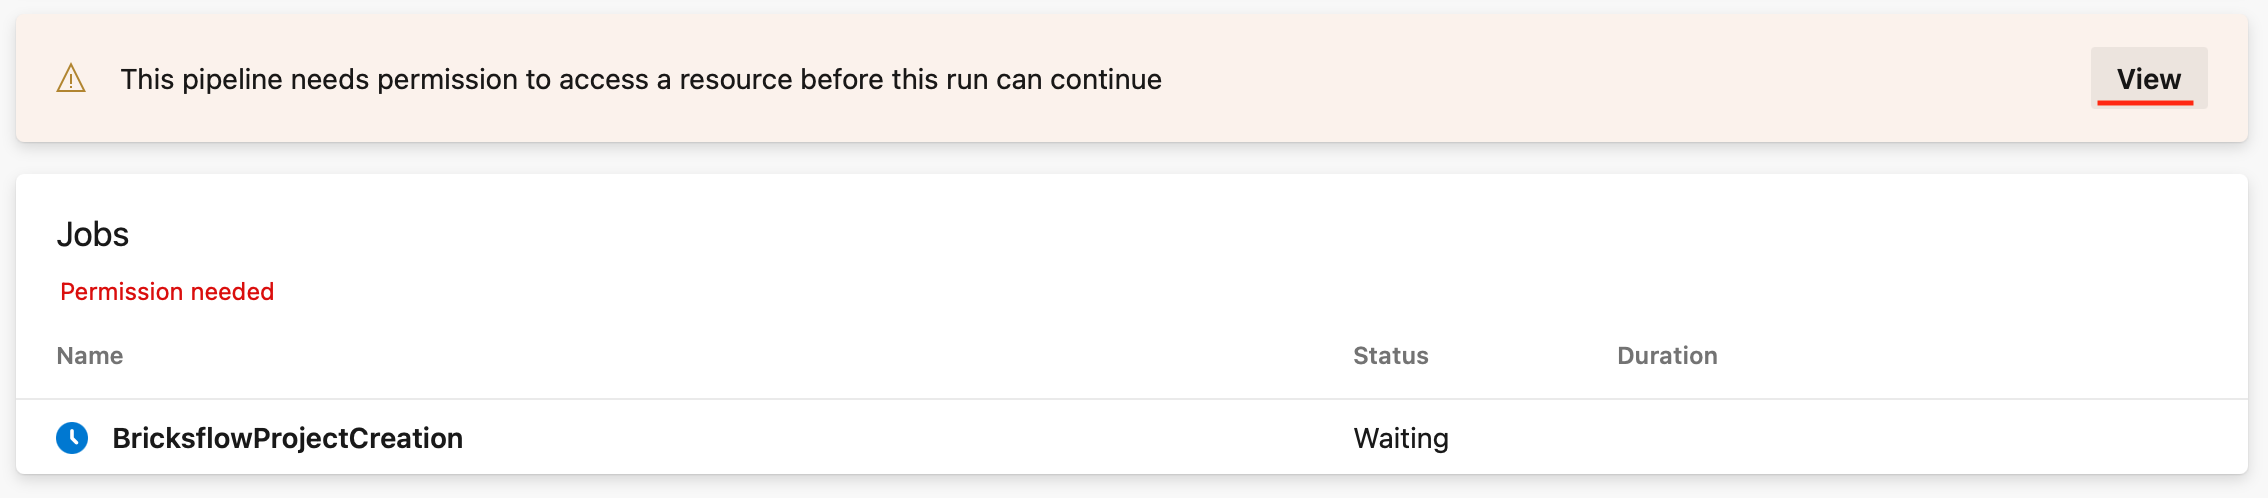
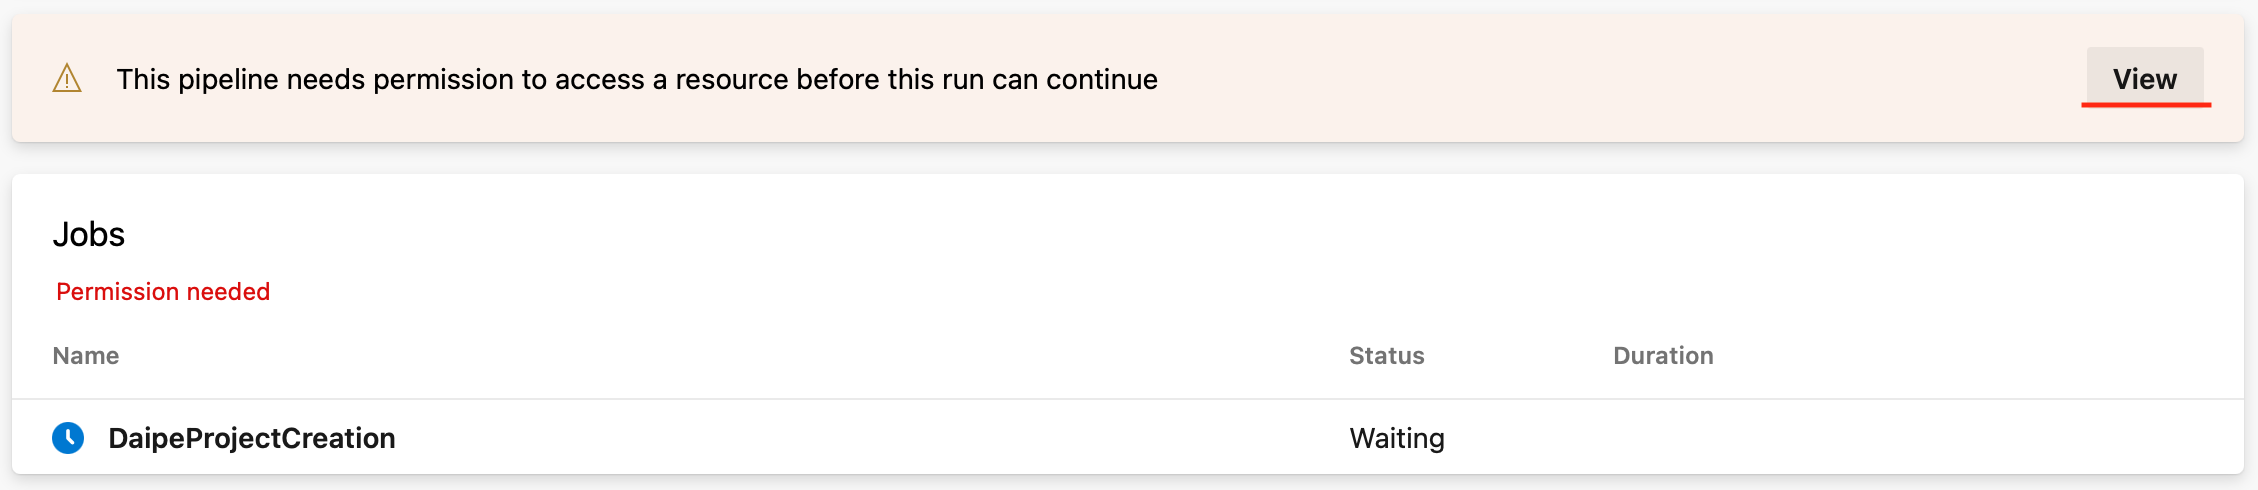
Documentation reflects newest changes on infrastructure workflow Bricksflow project creator replaced with Daipe project creator Images updated to reflect changes

diff --git a/docs/getting-started/datalake-resources-setup.md b/docs/getting-started/datalake-resources-setup.md
@@ -5,7 +5,8 @@
 ![](../images/dia_infra.png){: style="width: 700px; padding-left: 5%"}
 
 
-**Overview of branches / workflow:**
+
+**Overview of project workflow (environments / branches):**
 
 | Environment 	| Branch  	| Databricks Workspace 	| Databricks Code branch                     	| DataFactory Resource                         	| DataFactory Pipelines Code branch          	| APP_ENV                                       	|
 |-------------	|---------	|----------------------	|--------------------------------------------	|----------------------------------------------	|--------------------------------------------	|-----------------------------------------------	|
@@ -13,9 +14,19 @@
 | sandbox     	| sandbox 	| DBX sandbox          	| [feature branch] (optional)                	| -                                            	| -                                          	| dev (if Bricskflow coding standards are used) 	|
 | dev         	| dev     	| DBX dev              	| [feature branch] (required)                	| ADF dev                                      	| [feature branch]                           	| dev                                           	|
 | test        	| test    	| DBX test             	| [feature branch] (auto-deployment with PR) 	| ADF [feature-branch] (auto-creation with PR) 	| [feature branch] (auto-deployment with PR) 	| dev                                           	|
-| prod        	| prod    	| DBX prod             	| prod (auto-deployment after merge to prod) 	| ADF prod                                     	| prod                                       	| prod                                          	|
+| prod        	| master    | DBX prod              | master (auto-deployment after tag) 	        | ADF prod                                     	| master                                       	| prod                                          	|
 
+Infrastructure repository workflow:
 
+  - branch based deployment
+  - each branch represents different environment with environment specific variables
+  - master branch holds the truth and deploys prod environment resources
+
+Daipe project repository workflow:
+
+  - feature branches are deployed to dev environment
+  - pull requests to master branch are deployed to test environment
+  - the master branch is presented in dev environment and released to prod environment after tagging the release  
 
 ## 1. Create repository for infrastructure and import it's code
 
@@ -40,27 +51,41 @@
 
 ![](../images/resources_step3.png)
 
-## 2. Set infrastructure variables
+## 2. Set main infrastructure variables
 
-The file `.cicd/variables/variables.yml` holds variables that you can use to customize your infrastructure.
+The file `.cicd/variables/variables.yml` holds the main variables that you can use to customize your infrastructure.  
+The files `.cicd/variables/variables-{temp/sand/dev/test/prod}.yml` hold specific variables for each environment.
 
 ![](../images/resources_step4.png)
 
-Replace the placeholders.
+**Replace** the general placeholders in `.cicd/variables/variables.yml`:
 
 - TENANT_ID - from [Azure setup](azure-setup.md) section 5
 - PROJECT_NAME - <span style="color: red">!! should be simple lowercase name (max 5 characters) !!</span>
-- SERVICE_CONNECTION_NAME_DEV - devops-service-connection-to-devsubscription
-- SERVICE_CONNECTION_NAME_TEST - devops-service-connection-to-testsubscription
-- SERVICE_CONNECTION_NAME_PROD - devops-service-connection-to-prodsubscription
 - GIT_ACCOUNT_NAME - name of your devops organization
 - GIT_PROJECT_NAME - name of your devops project
 
-In the files `.cicd/variables/variables-{dev/test/prod}.yml` change ADMIN_OBJECT_ID to object id of user of your choice. This user will have admin access to created keyvault.
+## 3. Create environment based branches
+**Create branches** based on environments you want to deploy:  
+<span style="color: red">(this needs to be done for all the environments you're about to deploy)</span>  
+For updating environment specific variables create branch and name it after the environment you want to deploy, update environment specific variables.
 
-You can find user object id in Active Directory.
+<u>**Non prod** environment:</u>  
 
-![](../images/user_object_id.png)
+- checkout newly created branch   
+- in the file`.cicd/variables/variables.yml` update SERVICE_CONNECTION_NAME variable for the environment you're about to deploy
+- update environment specific variables in the file `.cicd/variables/variables-{environment}.yml`
+    - update desired environment variables here
+    - change ADMIN_OBJECT_ID to object id of user of your choice. This user will have admin access to created keyvault
+    - You can find user object id in Active Directory.
+
+![](../images/user_object_id.png){: style="width: 900px; padding-left: 10%"}
+
+<span style="color: red">After the successful deployment based on next steps merge the commits to the master branch!</span>
+
+<u>**Prod** environment:</u>    
+Prod environment is based on the master branch.  
+When you're about to deploy prod resources, updated the prod based variables through the pull request, optional directly in the master branch.
 
 ## 3. Create DevOps pipeline for infrastructure build & deployment
 
@@ -78,15 +103,23 @@ You can find user object id in Active Directory.
 ![](../images/resources_step7.png)
 
 - It will automaticaly locate file `azure-pipelines.yml`
-- Click on Run
+- Click on Save 
 
 ![](../images/resources_step8.png)
+  
+- Click on run and select created branch with the variables of the environment you'd like to deploy.
+
+![](../images/resources_step9.png){: style="width: 600px; padding-left: 5%"}
+
+The environment resource group based on selected branch is deployed to the Subscription.
+
+**Run the pipeline again** with different branch selected if you'd like to deploy another environment.
 
 ## 4. Create Key Vault Secret Scope in Databricks
 
 When the pipeline is finished you need to create secret scope for Databricks.
 
-<span style="color: red">!! This needs to be done for all environments dev/test/prod !!</span>
+<span style="color: red">!! This needs to be done for all environments you deployed {temp/sand/dev/test/prod} !!</span>
 
 - Go to Databricks workspace
 

diff --git a/docs/getting-started/data-pipelines-project-setup.md b/docs/getting-started/data-pipelines-project-setup.md
@@ -6,13 +6,13 @@
 
 ## Introduction and Prerequisites
 
-[`bricksflow-project-creator.yml`](https://github.com/DataSentics/adap-infra-template/blob/master/.cicd/pipelines/bricksflow-project-creator.yml) is Azure DevOps pipeline that initiates a new Data Pipelines project from the up-to-date [Daipe template](https://github.com/daipe-ai/databricks-skeleton).
+[`daipe-project-creator.yml`](https://github.com/DataSentics/adap-infra-template/blob/master/.cicd/pipelines/daipe-project-creator.yml) is Azure DevOps pipeline that initiates a new Data Pipelines project from the up-to-date [Daipe template](https://github.com/daipe-ai/databricks-skeleton).
 
 The pipeline also contains the script for automatic protection of the master branch in newly created project.
 
 **Data Pipelines project consists of the following components:**
 
-- A git repo with DataFactory pipelines, Daipe project structure and sample notebooks to give you sense about the usage and workflow.
+- A git repo with DataFactory pipelines, Daipe project structure.
 
 - CI/CD pipelines:
   
@@ -23,14 +23,14 @@ The pipeline also contains the script for automatic protection of the master bra
 
 For initial setup of Data Pipelines project / repository:
 
-- Successfully deployed **Infrastructure** from [Datalake resources](datalake-resources-setup.md) page
+- Successfully deployed DEV/TEST/PROD **Infrastructure** from [Datalake resources](datalake-resources-setup.md) page
 - Permission to create Personal Access token in your DevOps organization project
 
 ## How to set up Data Pipelines project?
 
 ###1. Create Personal access token for the first run of the pipeline
 - The Personal Access token is needed just for the first run of the pipeline to create a new Daipe based project DevOps repository and initial set up of the CICD pipeline
-- **It can be deleted** after the successful run of the `bricksflow-project-creator.yml` 
+- **It can be deleted** after the successful run of the `daipe-project-creator.yml` 
 
 **Go to**:
 
@@ -41,7 +41,7 @@ Then create the new Personal Token with these permissions.
 ![](../images/pat_step2.png)
 
 ###2. Register the Daipe project creator pipeline and run it
-**Create** a new DevOps pipeline based on `.cicd/pipelines/bricksflow-project-creator` located in infrastructure repo
+**Create** a new DevOps pipeline based on `.cicd/pipelines/daipe-project-creator` located in infrastructure repo.
 
 ![](../images/resources_step5.png)
 ![](../images/resources_step6.png)
@@ -56,7 +56,12 @@ Set a **PA_TOKEN** variable under the Variables by providing Personal Access Tok
 
 You can now rename the pipeline, if you'd like to.
 
-**Run** the newly created pipeline and provide the **name of the project** you want to create.
+**Run** the newly created pipeline:
+
+- select the **dev** branch
+- provide the **name of the project** you want to create.  
+
+*selecting dev branch is necessary for initial setup of CICD in newly created Daipe project
 
 ![](../images/bricks_run.png)
 
@@ -84,12 +89,29 @@ After successful execution, you will find the following **resources**:
         - there needs to be in minimum ONE approval for the PR
         - Merging is done by the Squash commit
 
-* **Main CI/CD pipeline** created for the repo. The pipeline is called `master-$yourprojectname-deployment`. 
+- **Main CI/CD pipeline** created for the repo. The pipeline is called `master-$yourprojectname-deployment`.
   
-  ![](../images/bricks_created_pipeline.png)
+## Update project variables
 
+**Set** SERVICE_CONNECTION_NAME variables for your newly created project in `.cicd/variables/variables.yml`.
 
-**Note**: the pipeline will be executed automatically after creation of the Data Pipelines project repository for deploying sample notebooks to Databricks and will ask for permission to the service connection, as it is shown on the picture below.
+![](../images/bricks_update_variables.png)
+
+**Commit** the changes:
+
+- set the name of the branch, eq. `update-variables`
+- check Create pull request
+
+![](../images/bricks_commit.png){: style="width: 500px; padding-left: 15%"}
+
+It will automatically create Pull request to the master branch, get it approved and merge the changes.
+
+The deployment pipeline will be executed automatically, after the merge of updated variables.  
+You can find it running under the Pipelines tab.
+
+![](../images/bricks_created_pipeline.png)
+
+The project will be deployed to the DEV Databricks and pipeline will ask for permission to the service connection, as it is shown on the picture below.
 
 ![](../images/bricks_permission_cp.png)
 
